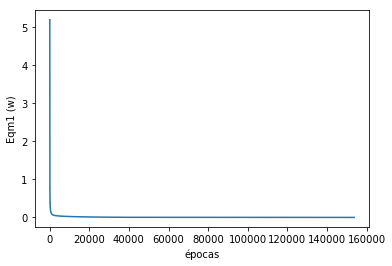
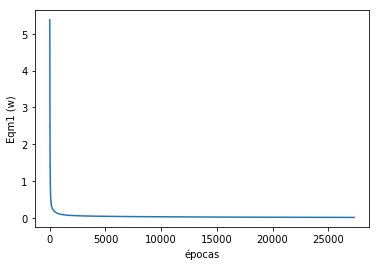
Rede neural Adaline

Changed region(s): [[0.0, 0.0301, 0.9842, 0.9925], [0.1158, 0.8421, 0.1447, 0.9323]]

diff --git a/grafico_adaline_eqm_1.py b/grafico_adaline_eqm_1.py
@@ -1,41 +1,5 @@
-vetor pesos sinapticos original:
-0.550707
-0.856990
-0.881314
-0.361339
-0.615162
-0.212745
-0.520005
-0.266366
-0.618122
-0.504776
-0.376019
-0.597674
-0.639088
-0.258614
-0.080203
-0.340068
-0.591144
-0.632099
-0.968078
-0.559832
-0.557360
-0.030732
-0.358654
-0.192694
-0.551256
-0.451643
-0.648122
-0.388836
-0.607257
-0.836940
-0.373577
-0.945524
-0.607379
-0.218665
-0.904233
-0.859066
-**************
+import matplotlib.pyplot as plt
+plt.plot([
 5.384165,
 4.817157,
 4.817157,
@@ -27360,104 +27324,8 @@ vetor pesos sinapticos original:
 0.007063,
 0.007063,
 0.007062,
-vetor pesos sinapticos final:
--0.250000
-0.917011
--0.238954
--0.899200
--0.609682
-0.331214
-0.382395
-3.795046
-3.911827
-0.601287
-0.479800
--0.168967
-0.226752
-0.838997
--0.313087
--1.161036
-0.615574
--0.315070
--0.246877
-0.195906
-0.245423
--0.176218
--0.143248
-0.109448
--0.331499
-0.144350
--2.049643
-0.952018
--0.409685
-0.496894
-0.254842
-0.223254
-0.962927
-0.178209
--0.190125
--0.946701
-@@@@@@@@@@@@@@@@
+]);
 
-qtd epocas = 13662
-
-0.969400 pertence a classe A
-0.690900 pertence a classe A
-0.433400 pertence a classe A
-3.496500 pertence a classe A
-0.542700 pertence a classe B
-1.383200 pertence a classe B
-0.639000 pertence a classe B
-4.035200 pertence a classe B
-0.608100 pertence a classe A
--0.919600 pertence a classe B
-0.592500 pertence a classe A
-0.101600 pertence a classe A
--0.161800 pertence a classe B
-0.469400 pertence a classe A
-0.203000 pertence a classe A
-3.011700 pertence a classe A
-0.187000 pertence a classe A
--0.257800 pertence a classe B
-0.612400 pertence a classe A
-1.774900 pertence a classe A
-0.489100 pertence a classe B
--0.527600 pertence a classe A
-0.437800 pertence a classe B
-0.643900 pertence a classe B
-0.377700 pertence a classe B
-2.014900 pertence a classe B
-0.742300 pertence a classe B
-3.393200 pertence a classe B
-1.149800 pertence a classe B
--0.406700 pertence a classe A
-0.246900 pertence a classe B
-1.586600 pertence a classe B
-0.932500 pertence a classe B
-1.095000 pertence a classe B
-1.035900 pertence a classe B
-3.359100 pertence a classe B
-0.506000 pertence a classe B
-1.331700 pertence a classe B
-0.922200 pertence a classe B
-3.717400 pertence a classe B
-0.049700 pertence a classe B
--2.065600 pertence a classe A
-0.612400 pertence a classe B
--0.658500 pertence a classe A
-0.400400 pertence a classe A
-3.536900 pertence a classe A
-0.976600 pertence a classe A
-5.353200 pertence a classe A
--0.187400 pertence a classe A
-1.334300 pertence a classe B
-0.537400 pertence a classe B
-3.218900 pertence a classe B
-0.506000 pertence a classe B
-1.331700 pertence a classe B
-0.922200 pertence a classe B
-3.717400 pertence a classe B
-1.637500 pertence a classe A
--0.791100 pertence a classe B
-0.753700 pertence a classe A
-0.551500 pertence a classe A
+plt.ylabel('Eqm1 (w)')
+plt.xlabel('épocas')
+plt.show()
